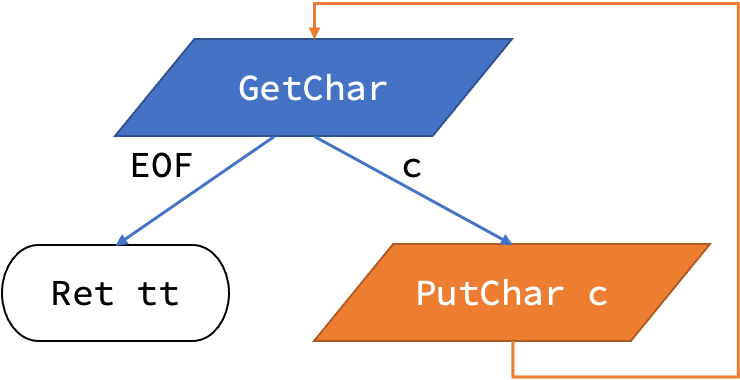
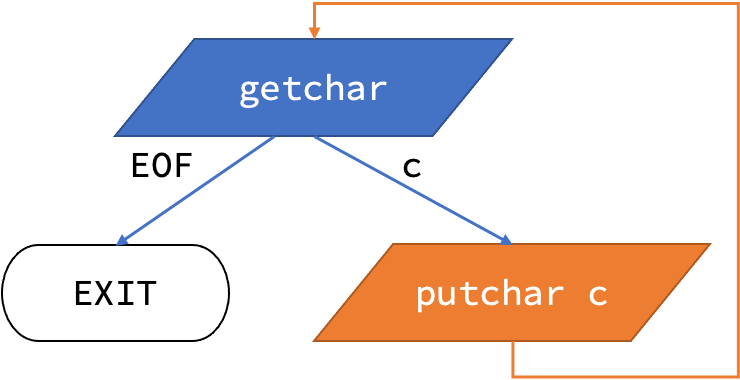
Rewrite itree

diff --git a/practice.tex b/practice.tex
@@ -32,7 +32,7 @@ verbatim, until reaching EOF:
                       else putchar c;; echo.
 \end{lstlisting}
 
-Here the behavior after \ilc{read} depends on the value actually read.  Such
+Here the behavior after \ilc{read} depends on the value actually read.  This
 monadic computation can be desugarized into:
 \begin{lstlisting}[style=customcoq]
   CoInductive echo2 :=
@@ -42,107 +42,64 @@ monadic computation can be desugarized into:
 \end{lstlisting}
 
 \begin{figure}
-  \begin{lstlisting}[style=customcoq]
-    CoInductive itree (E: Type -> Type) (R: Type) :=
-    | Ret: R -> itree E R
-    | Vis: forall {X : Type}, E X -> (X -> itree E R) -> itree E R
-    | Tau: itree E R -> itree E R.
-  \end{lstlisting}
-  \caption[Formal definition of interaction trees]{Formal definition of
-    interaction trees, simplified for readability.}
-  \label{fig:itrees}
-\end{figure}
-
-This continuation-passing style is formalized in the ITree data structure.  As
-shown in \autoref{fig:itrees}, \ilc{(itree E R)} represents a program with
-interaction event type \ilc E and return type \ilc R.
-
-An ITree program can be constructed in three ways: The \ilc{(Ret r)} constructor
-corresponds to the trivial computation that halts and yields the value \ilc{r}.
-The \ilc{(Tau t)} constructor corresponds to a silent step of computation, which
-produces no effect and then continues as \ilc{t}.  Representing silent steps
-explicitly with \ilc{Tau} allows us, for example, to represent diverging
-computation without violating Coq's guardedness condition~\cite{coinduction}:
 \begin{lstlisting}[style=customcoq]
-  CoFixpoint spin {E R} : itree E R := Tau spin.
+  CoInductive itree (E: Type -> Type) (R: Type) :=
+    Ret     : R   -> itree E R
+  | Trigger : E R -> itree E R
+  | Bind    : forall {X : Type}, itree E X -> (X -> itree E R) -> itree E R.
 \end{lstlisting}
-
-Here \ilc{spin} is an infinite program that never returns or performs any
-events.  The usage of the \ilc{Tau} constructor will be further explained in
-\autoref{sec:net-compose}.
-
-The final and most interesting way to build an ITree is with the \ilc{(Vis X e
-  k)} constructor.  Here \ilc{(e: E X)} is an event whose result is of type \ilc
-X.  Function \ilc {k} defines an ITree program parameterized over an argument of
-type \ilc X.  ITree \ilc{(Vis X e k)} first performs event \ilc e, and uses its
-return value \ilc{(x: X)} to instantiate the continuation function \ilc{(k x)}.
-
-These constructors build programs as tree structures, as the name ITree
-suggests: \ilc{(Ret r)} constructs a leaf of value \ilc r; \ilc{(Tau m)} is a
-node with single child \ilc m; \ilc{(Vis X e k)} has root \ilc e, and children
-\ilc{(k x)} for every \ilc x of type \ilc X.  \autoref{fig:echo-itree} shows the
-tree structure for the \ilc{echo} program.
+\caption[Formal definition of interaction trees]{Formal definition of
+  interaction trees.}
+\label{fig:itrees}
+\end{figure}
 
 \begin{figure}
   \includegraphics[width=.5\linewidth]{figures/echo-itree}
-  \caption{ITree for echo program}
+  \caption{Interaction tree for echo program}
   \label{fig:echo-itree}
 \end{figure}
 
-Now we can write the echo program in the ITree language:
+Such continuation-passing style can be represented as a tree of interactions.
+As shown in \autoref{fig:itrees}, an interaction tree (\ilc{itree}) has two
+kinds of nodes, \ilc{Ret} and \ilc{Trigger}, and has edges constructed by
+\ilc{Bind}:
+\begin{itemize}
+\item \ilc{(Ret r)} represents a pure computation that yields a value \ilc r.
+  In the echo example, \ilc{EXIT} halts the program with return value zero:
+\begin{lstlisting}[style=customcoq]
+  Definition EXIT {E} : itree E Z := Ret 0.
+\end{lstlisting}
+\item \ilc{(Trigger e)} performs an event \ilc e and returns the event's result,
+  where \ilc{(e: E R)} is an event whose result is of type \ilc R.  For example,
+  \ilc{getchar} has result type \ilc{char}, and \ilc{putchar}'s result type is
+  \ilc{unit} (which corresponds to \inlinec{void} in C/C++, or \ilc{()} in
+  Haskell):
 \begin{lstlisting}[style=customcoq]
   Variant stdioE: Type -> Type := (* event type *)
     GetChar:         stdioE char
   | PutChar: char -> stdioE unit.
-
-  CoInductive echo3: itree stdioE unit :=
-    Vis char GetChar
-    (fun c => if c is EOF then Ret tt
-            else Vis unit (PutChar c)
-                 (fun _ => echo)).
+  
+  Definition getchar : itree stdioE char := Trigger GetChar.
+  Definition putchar (c: char) : itree stdioE unit
+                               := Trigger (PutChar c).
 \end{lstlisting}
-
-The three definitions of echo are equivalent modulo syntactic sugars:
-\begin{itemize}
-\item The \ilc{getchar}, \ilc{putchar}, and \ilc{EXIT} used in \ilc{echo} and
-  \ilc{echo2} are by themselves ITree programs:
+\item \ilc{(Bind m k)} binds the return value of \ilc m to the continuation
+  function \ilc k.  It first runs program \ilc m until it returns some value of
+  type \ilc X.  The return value \ilc{(x: X)} then instantiates \ilc k into the
+  following computation \ilc{(k x: itree E R)}.  This corresponds to the \ilc{(_
+    <- _ ;; _)} and \ilc{>>=} syntax in \ilc{echo} and \ilc{echo2}:
 \begin{lstlisting}[style=customcoq]
-  Definition trigger {E R} (e: E R) : itree E R := Vis E e Ret.
-  Definition getchar : itree stdioE char := trigger GetChar.
-  Definition putchar (a: char) : itree stdioE unit
-                               := trigger (PutChar a).
-  Definition EXIT {E} : itree E unit := Ret tt.
-\end{lstlisting}
-Here \ilc{(trigger e)} creates an ITree that performs a single event \ilc{(e: E
-  R)}, and halts with the return value of \ilc e.  \ilc{EXIT} halts the program
-with unit value \ilc{tt}.
-
-\item The \ilc{(m >>= k)} syntax in \ilc{echo2} binds ITree program \ilc m to
-  continuation function \ilc k: Whenever ITree \ilc m halts at leaf \ilc{(Ret
-    r)}, use the return value \ilc r to instantiate the function \ilc k, and the
-  program continues with \ilc{(k r)}:
-\begin{lstlisting}[style=customcoq]
-  CoFixpoint bind {E R T} (m: itree E R) (k: R -> itree E T)
-             : itree E T :=
-    match m with
-    | Ret r     => k r
-    | Tau m'    => Tau (bind m' k)
-    | Vis X e c => Vis X e (fun x => bind (c x) k)
-    end.
-  Notation "m >>= k"      := (bind m k).
+  Notation "m >>= k"      := (Bind m   k).
+  Notation "x <- m1;; m2" := (Bind m1 (fun x => m2)).
+  Notation "m1;; m2"      := (Bind m1 (fun _ => m2)).
 \end{lstlisting}
 
-\item The \ilc{echo} definition, syntax \ilc{(c <- getchar;; ...)} binds the
-  return value of \ilc{getchar} as variable \ilc c in the continuation.  The
-  return value of \ilc{putchar} is trivial and ignored, so the syntax
-  \ilc{(putchar c;; echo)} does not specify any bound variable:
-\begin{lstlisting}[style=customcoq]
-  Notation "x <- m1;; m2" := (m1 >>= (fun x => m2)).
-  Notation      "m1;; m2" := (m1 >>= (fun _ => m2)).
-\end{lstlisting}
+As illustrated in \autoref{fig:echo-itree}, each possible return value \ilc x is
+an edge that leads to the child it instantiates {\it i.e.} \ilc{(k x)}.  In this
+way, the \ilc{Ret} and \ilc{Trigger} nodes are connected into a tree structure.
 \end{itemize}
 
-ITree can specify various kinds of programs like servers and testers, by
+ITrees can specify various kinds of programs like servers and testers, by
 defining different event types.  For example, the QAC server in
 \autoref{def:server} exhibits internal nondeterminism.  The internal choices
 made by the server can be represented as \ilc{Choice} events whose result can be
@@ -437,8 +394,8 @@ as parameters, and makes steps in the two ITrees in certain order.  The composed
 model exhibits to the client three kinds of events: (i) Network operations
 (\ilc{netE}) where packets are emitted to or absorbed from clients, (ii)
 Nondetermistic branches (\ilc{nondetE}) made by the network model, and (iii)
-Other events \ilc{\{E\}} made by the server model {\it e.g.} internal choices
-(\ilc{choiceE}) in \autoref{sec:itree-lang}.
+Other events \ilc{\{E\}} performed by the server model {\it e.g.} internal
+choices (\ilc{choiceE}) in \autoref{sec:itree-lang}.
 
 Notice that this algorithm schedules the server at a higher priority than the
 network model.  The composed model only steps into the network model when the
@@ -455,11 +412,10 @@ trigger any event before recursing with updated buffer states.  The \ilc{Tau}
 constructor convinces Coq that the program satisfies the guardedness
 condition~\cite{coinduction}.  \lys{Should I explain \ilc{Tau} at all?}
 
-This section has shown how to specify systems that exhibit external
-nondeterminism.  By specifying the environment and composing it with the
-specification, we can describe the space of valid observations.  The next
-section will show how to derive tester programs from these observer-side
-specifications.
+So far I've shown how to specify systems that exhibit external nondeterminism.
+By specifying the environment and composing it with the specification, we can
+describe the space of valid observations.  The rest of this chapter will show
+how to derive tester programs from these observer-side specifications.
 
 \section{From Specification to Tester}
 \label{sec:spec-to-test}
